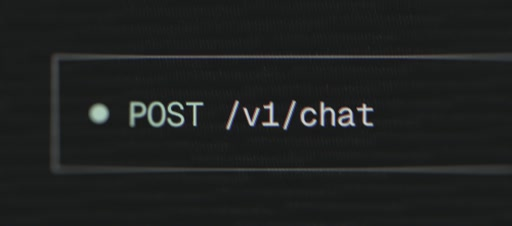
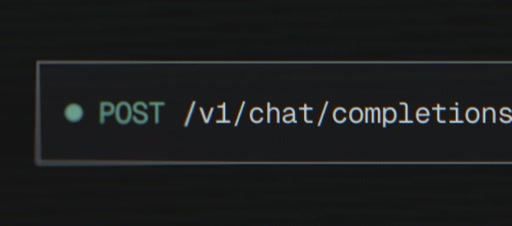
chore: update AI Gateway hero video and backend platform CTA (#5235)
* chore: video update

* fix: update backend platform CTA

Pull request: chore: update AI Gateway hero video and backend platform CTA
Updates the AI Gateway hero media and refreshes the backend platform CTA used in blog posts. The CTA now has improved responsive styling and inline email validation while preserving the existing submission flow.

Previews - blog [post](https://neon-next-git-fix-copy-chat-completions-pixelpoint.vercel.app/blog/were-building-backends), [docs](https://neon-next-git-fix-copy-chat-completions-pixelpoint.vercel.app/docs/introduction), [home](https://neon-next-git-fix-copy-chat-completions-pixelpoint.vercel.app/) page.

Changed region(s): [[0.0625, 0.2168, 1.0, 0.7743]]

diff --git a/src/components/shared/request-form/request-form.jsx b/src/components/shared/request-form/request-form.jsx
@@ -14,6 +14,7 @@ import { useState, useEffect, useMemo } from 'react';
 import Button from 'components/shared/button';
 import CheckIcon from 'icons/check.inline.svg';
 import ChevronIcon from 'icons/chevron-down.inline.svg';
+import inputWarningIcon from 'icons/input-warning.svg';
 import backendFormDarkBg from 'images/pages/docs/request-form/backend-form-dark-bg.png';
 import backendFormLightBg from 'images/pages/docs/request-form/backend-form-light-bg.png';
 import patternSvg from 'images/pages/docs/request-form/pattern.svg';
@@ -55,6 +56,7 @@ const RequestForm = ({
   const [query, setQuery] = useState('');
   const [isValid, setIsValid] = useState(false);
   const [isSent, setIsSent] = useState(false);
+  const [hasEmailError, setHasEmailError] = useState(false);
 
   const filteredOptions = useMemo(() => {
     if (!hasOptions) return [];
@@ -79,7 +81,15 @@ const RequestForm = ({
   const handleSubmit = (e) => {
     e.preventDefault();
 
-    if (isValid) {
+    const hasSelection = hasOptions ? !!selected : true;
+    const canSubmit = hasSelection && (isRecognized || emailRegexp.test(email));
+
+    if (isBackendPlatformForm && !canSubmit) {
+      setHasEmailError(true);
+      return;
+    }
+
+    if (canSubmit) {
       if (window.zaraz) {
         const { eventName, eventProps } = DATA[type];
         const eventData = { email };
@@ -99,35 +109,43 @@ const RequestForm = ({
   };
 
   const isBackendPlatformForm = type === 'backend-platform';
-  const backendFormBgClassName =
-    'pointer-events-none absolute -top-3.25 left-[max(27rem,calc(100%_-_22.5rem))] aspect-400/275 w-100 md:hidden';
 
   return (
     <figure
       className={cn(
         'doc-cta not-prose relative my-5 overflow-hidden border border-gray-new-80 bg-gray-new-98 px-7 py-6 sm:p-6',
         'dark:border-gray-new-20 dark:bg-gray-new-8',
-        isBackendPlatformForm && 'p-5 sm:p-5',
+        isBackendPlatformForm && '@container/request p-5 md:p-4.5 sm:p-4.5',
         className
       )}
     >
       {isBackendPlatformForm ? (
-        <>
+        <div
+          className={cn(
+            'pointer-events-none absolute -top-px left-[64%] z-0 block h-[calc(100%+2px)] w-fit max-w-none',
+            '@max-2xl/request:left-[460px]',
+            '@max-lg/request:relative @max-lg/request:-right-10 @max-lg/request:left-auto @max-lg/request:-mt-5.25 @max-lg/request:mb-3.5 @max-lg/request:ml-auto @max-lg/request:h-41'
+          )}
+        >
+          <div
+            className="absolute top-2/3 left-[40%] z-0 h-4/5 w-2/3 -translate-x-1/2 -translate-y-1/2 rotate-60 rounded-[100%] bg-linear-to-t from-transparent to-gray-new-30 to-20% opacity-40 blur-3xl dark:to-green-44 dark:opacity-20"
+            aria-hidden="true"
+          />
           <Image
-            className={cn(backendFormBgClassName, 'dark:hidden')}
+            className="relative z-10 h-full w-auto max-w-none dark:hidden"
             src={backendFormLightBg}
             alt=""
-            width={400}
-            height={275}
+            width={333}
+            height={187}
           />
           <Image
-            className={cn(backendFormBgClassName, 'hidden dark:block')}
+            className="relative z-10 hidden h-full w-auto max-w-none dark:block"
             src={backendFormDarkBg}
             alt=""
-            width={400}
-            height={275}
+            width={333}
+            height={187}
           />
-        </>
+        </div>
       ) : (
         <Image
           className="absolute top-0 right-0 bottom-0 h-full w-auto object-cover md:hidden"
@@ -141,16 +159,17 @@ const RequestForm = ({
         <h2 className="my-0! text-xl leading-tight font-medium tracking-tight text-black-pure dark:text-white">
           {title}
         </h2>
-        <p className="mt-2.5 max-w-md text-base leading-normal font-normal tracking-tight text-gray-new-20 opacity-90 dark:text-gray-new-80">
+        <p className="mt-2.5 max-w-104 text-base leading-normal font-normal tracking-tight text-gray-new-20 opacity-90 dark:text-gray-new-80">
           {description}
         </p>
         {!isSent ? (
           <form
-            className="mt-6 flex items-end gap-4 md:flex-col md:items-start"
+            className="mt-5 flex items-end gap-4 @max-lg/request:flex-col @max-lg/request:items-start md:flex-col md:items-start md:@min-lg/request:flex-row"
             onSubmit={handleSubmit}
+            noValidate={isBackendPlatformForm}
           >
             {hasOptions && (
-              <div className="flex-1 md:w-full">
+              <div className="flex-1 @max-lg/request:w-full md:w-full">
                 <Combobox
                   value={selected}
                   immediate
@@ -224,40 +243,62 @@ const RequestForm = ({
               </div>
             )}
             {!isRecognized && (
-              <input
-                type="email"
-                name="email"
-                value={email}
+              <div
                 className={cn(
-                  'h-11 min-w-64 border border-gray-new-80 bg-white px-4 py-2 text-base leading-snug tracking-extra-tight remove-autocomplete-styles placeholder:text-gray-new-40 md:w-full',
-                  '2xl:min-w-52 xl:min-w-40',
-                  'focus:outline focus:-outline-offset-1 focus:outline-gray-new-70',
-                  'dark:border-gray-new-30 dark:bg-gray-new-15 dark:placeholder:text-gray-new-60 dark:focus:outline-gray-new-30',
-                  isBackendPlatformForm && 'min-w-82.5 2xl:min-w-82.5 xl:min-w-82.5 md:min-w-0'
+                  'w-full min-w-64 2xl:min-w-52 xl:min-w-40',
+                  isBackendPlatformForm &&
+                    'relative w-fit min-w-82.5 shrink-0 @max-lg/request:w-full 2xl:min-w-82.5 xl:min-w-82.5 md:min-w-0'
                 )}
-                placeholder="Email"
-                required
-                onChange={(e) => setEmail(e.target.value)}
-              />
+              >
+                <input
+                  type="email"
+                  name="email"
+                  value={email}
+                  className={cn(
+                    'h-11 w-full border border-gray-new-80 bg-white px-4 py-2 text-base leading-snug tracking-extra-tight remove-autocomplete-styles placeholder:text-gray-new-40',
+                    'focus:outline focus:-outline-offset-1 focus:outline-gray-new-70',
+                    'dark:border-gray-new-30 dark:bg-gray-new-15 dark:placeholder:text-gray-new-60 dark:focus:outline-gray-new-30',
+                    isBackendPlatformForm && hasEmailError && 'border-[#FFACA4] pr-13',
+                    isBackendPlatformForm && hasEmailError && 'dark:border-[#8B3932]'
+                  )}
+                  placeholder="Enter your email..."
+                  required
+                  aria-invalid={hasEmailError ? true : undefined}
+                  onChange={(e) => {
+                    setEmail(e.target.value);
+                    setHasEmailError(false);
+                  }}
+                />
+                {isBackendPlatformForm && hasEmailError && (
+                  <Image
+                    className="pointer-events-none absolute top-1/2 right-3.5 size-6 -translate-y-1/2"
+                    src={inputWarningIcon}
+                    alt=""
+                    width={24}
+                    height={24}
+                    aria-hidden="true"
+                  />
+                )}
+              </div>
             )}
 
             <Button
               className={cn(
-                'rounded-full px-7 py-3.5 text-base leading-none font-medium tracking-tight md:w-full',
-                !isValid
+                'rounded-full px-7 py-3.5 text-base leading-none font-medium tracking-tight @max-lg/request:w-full md:w-full @min-lg/request:md:w-fit',
+                !isValid && !isBackendPlatformForm
                   ? 'pointer-events-none bg-gray-new-40 select-none dark:bg-gray-new-80'
                   : 'bg-black-pure dark:bg-white'
               )}
               theme="white-filled-multi"
               type="submit"
-              disabled={!isValid}
+              disabled={!isBackendPlatformForm && !isValid}
             >
               {buttonText}
             </Button>
           </form>
         ) : (
           <div className="mt-6 flex min-h-10 items-center gap-2 sm:min-h-0 sm:items-start">
-            <CheckIcon className="-mt-1 size-4 shrink-0 text-green-45 sm:mt-1" aria-hidden />
+            <CheckIcon className="-mt-1 size-4 shrink-0 text-green-45 sm:mt-1" aria-hidden="true" />
             <p className="text-[17px] font-light">
               {confirmation || 'Request logged. We appreciate your feedback!'}
             </p>

diff --git a/src/styles/blog-content.css b/src/styles/blog-content.css
@@ -2,10 +2,17 @@
   .prose-blog {
     @apply max-w-none leading-normal text-gray-new-90 prose-strong:text-gray-new-90;
     @apply prose-headings:leading-tight prose-headings:font-medium prose-headings:tracking-tighter prose-headings:text-white;
+    @apply prose-h2:m-0 prose-h2:pt-8 prose-h2:text-[28px] prose-h2:leading-tight prose-h2:font-medium prose-h2:tracking-tighter md:prose-h2:pt-6 md:prose-h2:text-[24px] sm:prose-h2:text-[20px];
+    @apply prose-h3:mt-7 prose-h3:text-xl prose-h3:leading-snug prose-h3:font-medium prose-h3:tracking-extra-tight md:prose-h3:mt-5 md:prose-h3:text-lg sm:prose-h3:text-[18px];
+    @apply prose-h4:mt-6 prose-h4:text-lg prose-h4:leading-snug prose-h4:font-medium prose-h4:tracking-extra-tight md:prose-h4:mt-4 md:prose-h4:text-base;
+    @apply prose-h5:mt-5 prose-h5:text-lg md:prose-h5:mt-4 md:prose-h5:text-base;
     @apply prose-a:rounded-sm prose-a:font-normal prose-a:text-white prose-a:underline prose-a:decoration-white/40 prose-a:decoration-dashed prose-a:underline-offset-4 prose-a:transition-colors prose-a:duration-200 prose-a:ease-in-out prose-a:hover:decoration-white sm:prose-a:break-words;
     @apply prose-figure:my-10 prose-img:my-10 prose-img:border prose-img:border-gray-new-90 dark:prose-img:border-gray-new-20 md:prose-figure:my-8 md:prose-img:my-8 sm:prose-figure:my-6 sm:prose-img:my-6;
     @apply prose-figcaption:mt-2.5 prose-figcaption:text-base prose-figcaption:leading-snug prose-figcaption:tracking-tight prose-figcaption:text-gray-new-50;
     @apply prose-pre:my-0 prose-pre:px-2;
+
+    @apply prose-p:mt-4.5 prose-p:mb-6 prose-p:text-lg prose-p:leading-normal prose-p:font-normal prose-p:tracking-tight prose-p:text-gray-new-85 md:prose-p:mt-4 md:prose-p:mb-5 md:prose-p:text-base;
+    /*      */
 
     *[id] {
       @apply scroll-mt-20 lg:scroll-mt-5;
@@ -33,26 +40,6 @@
       > code {
         @apply text-white! transition-colors duration-200;
       }
-    }
-
-    h2 {
-      @apply m-0 pt-8 text-[28px] leading-tight font-medium tracking-tighter md:pt-6 md:text-[24px] sm:text-[20px];
-    }
-
-    h3 {
-      @apply mt-7 text-xl leading-snug font-medium tracking-extra-tight md:mt-5 md:text-lg sm:text-[18px];
-    }
-
-    h4 {
-      @apply mt-6 text-lg leading-snug font-medium tracking-extra-tight md:mt-4 md:text-base;
-    }
-
-    h5 {
-      @apply mt-5 text-lg md:mt-4 md:text-base;
-    }
-
-    p {
-      @apply mt-[18px] mb-6 text-lg leading-normal font-normal tracking-tight text-gray-new-85 md:mt-4 md:mb-5 md:text-base;
     }
 
     ul,

diff --git a/src/components/pages/blog-post/blog-post-page/blog-post-page.jsx b/src/components/pages/blog-post/blog-post-page/blog-post-page.jsx
@@ -47,6 +47,27 @@ const renderBlogImage = ({ src, alt = '', ...props }) => {
 };
 /* eslint-enable @next/next/no-img-element */
 
+const renderBlogRequestForm = (props) => {
+  const isBackendPlatformForm = props.type === 'backend-platform';
+
+  return (
+    <RequestForm
+      {...props}
+      isBlogBackendCta={isBackendPlatformForm}
+      title={
+        isBackendPlatformForm && !props.title
+          ? 'Early access to the Neon backend platform'
+          : props.title
+      }
+      description={
+        isBackendPlatformForm && !props.description
+          ? "We're expanding Neon into a complete backend platform. Drop your email and we'll reach out soon."
+          : props.description
+      }
+    />
+  );
+};
+
 const mdxComponents = {
   h2: AnchorHeading('h2'),
   h3: AnchorHeading('h3'),
@@ -62,7 +83,7 @@ const mdxComponents = {
   CodeTabs,
   CTA,
   EmbedTweet,
-  RequestForm,
+  RequestForm: renderBlogRequestForm,
   YoutubeIframe,
 };
 

diff --git a/src/components/pages/home/hero/hero-services.jsx b/src/components/pages/home/hero/hero-services.jsx
@@ -8,7 +8,7 @@ import { useInView } from 'react-intersection-observer';
 import Link from 'components/shared/link';
 import { cn } from 'utils/cn';
 
-const VIDEO_VERSION = '20260619';
+const VIDEO_VERSION = '20260709';
 const SLIDER_VIEWPORT_QUERY = '(max-width: 63.9375rem)';
 const COMPACT_SLIDER_VIEWPORT_QUERY = '(max-width: 33.6875rem)';
 const VIDEO_SWITCH_DELAY_MS = 20;